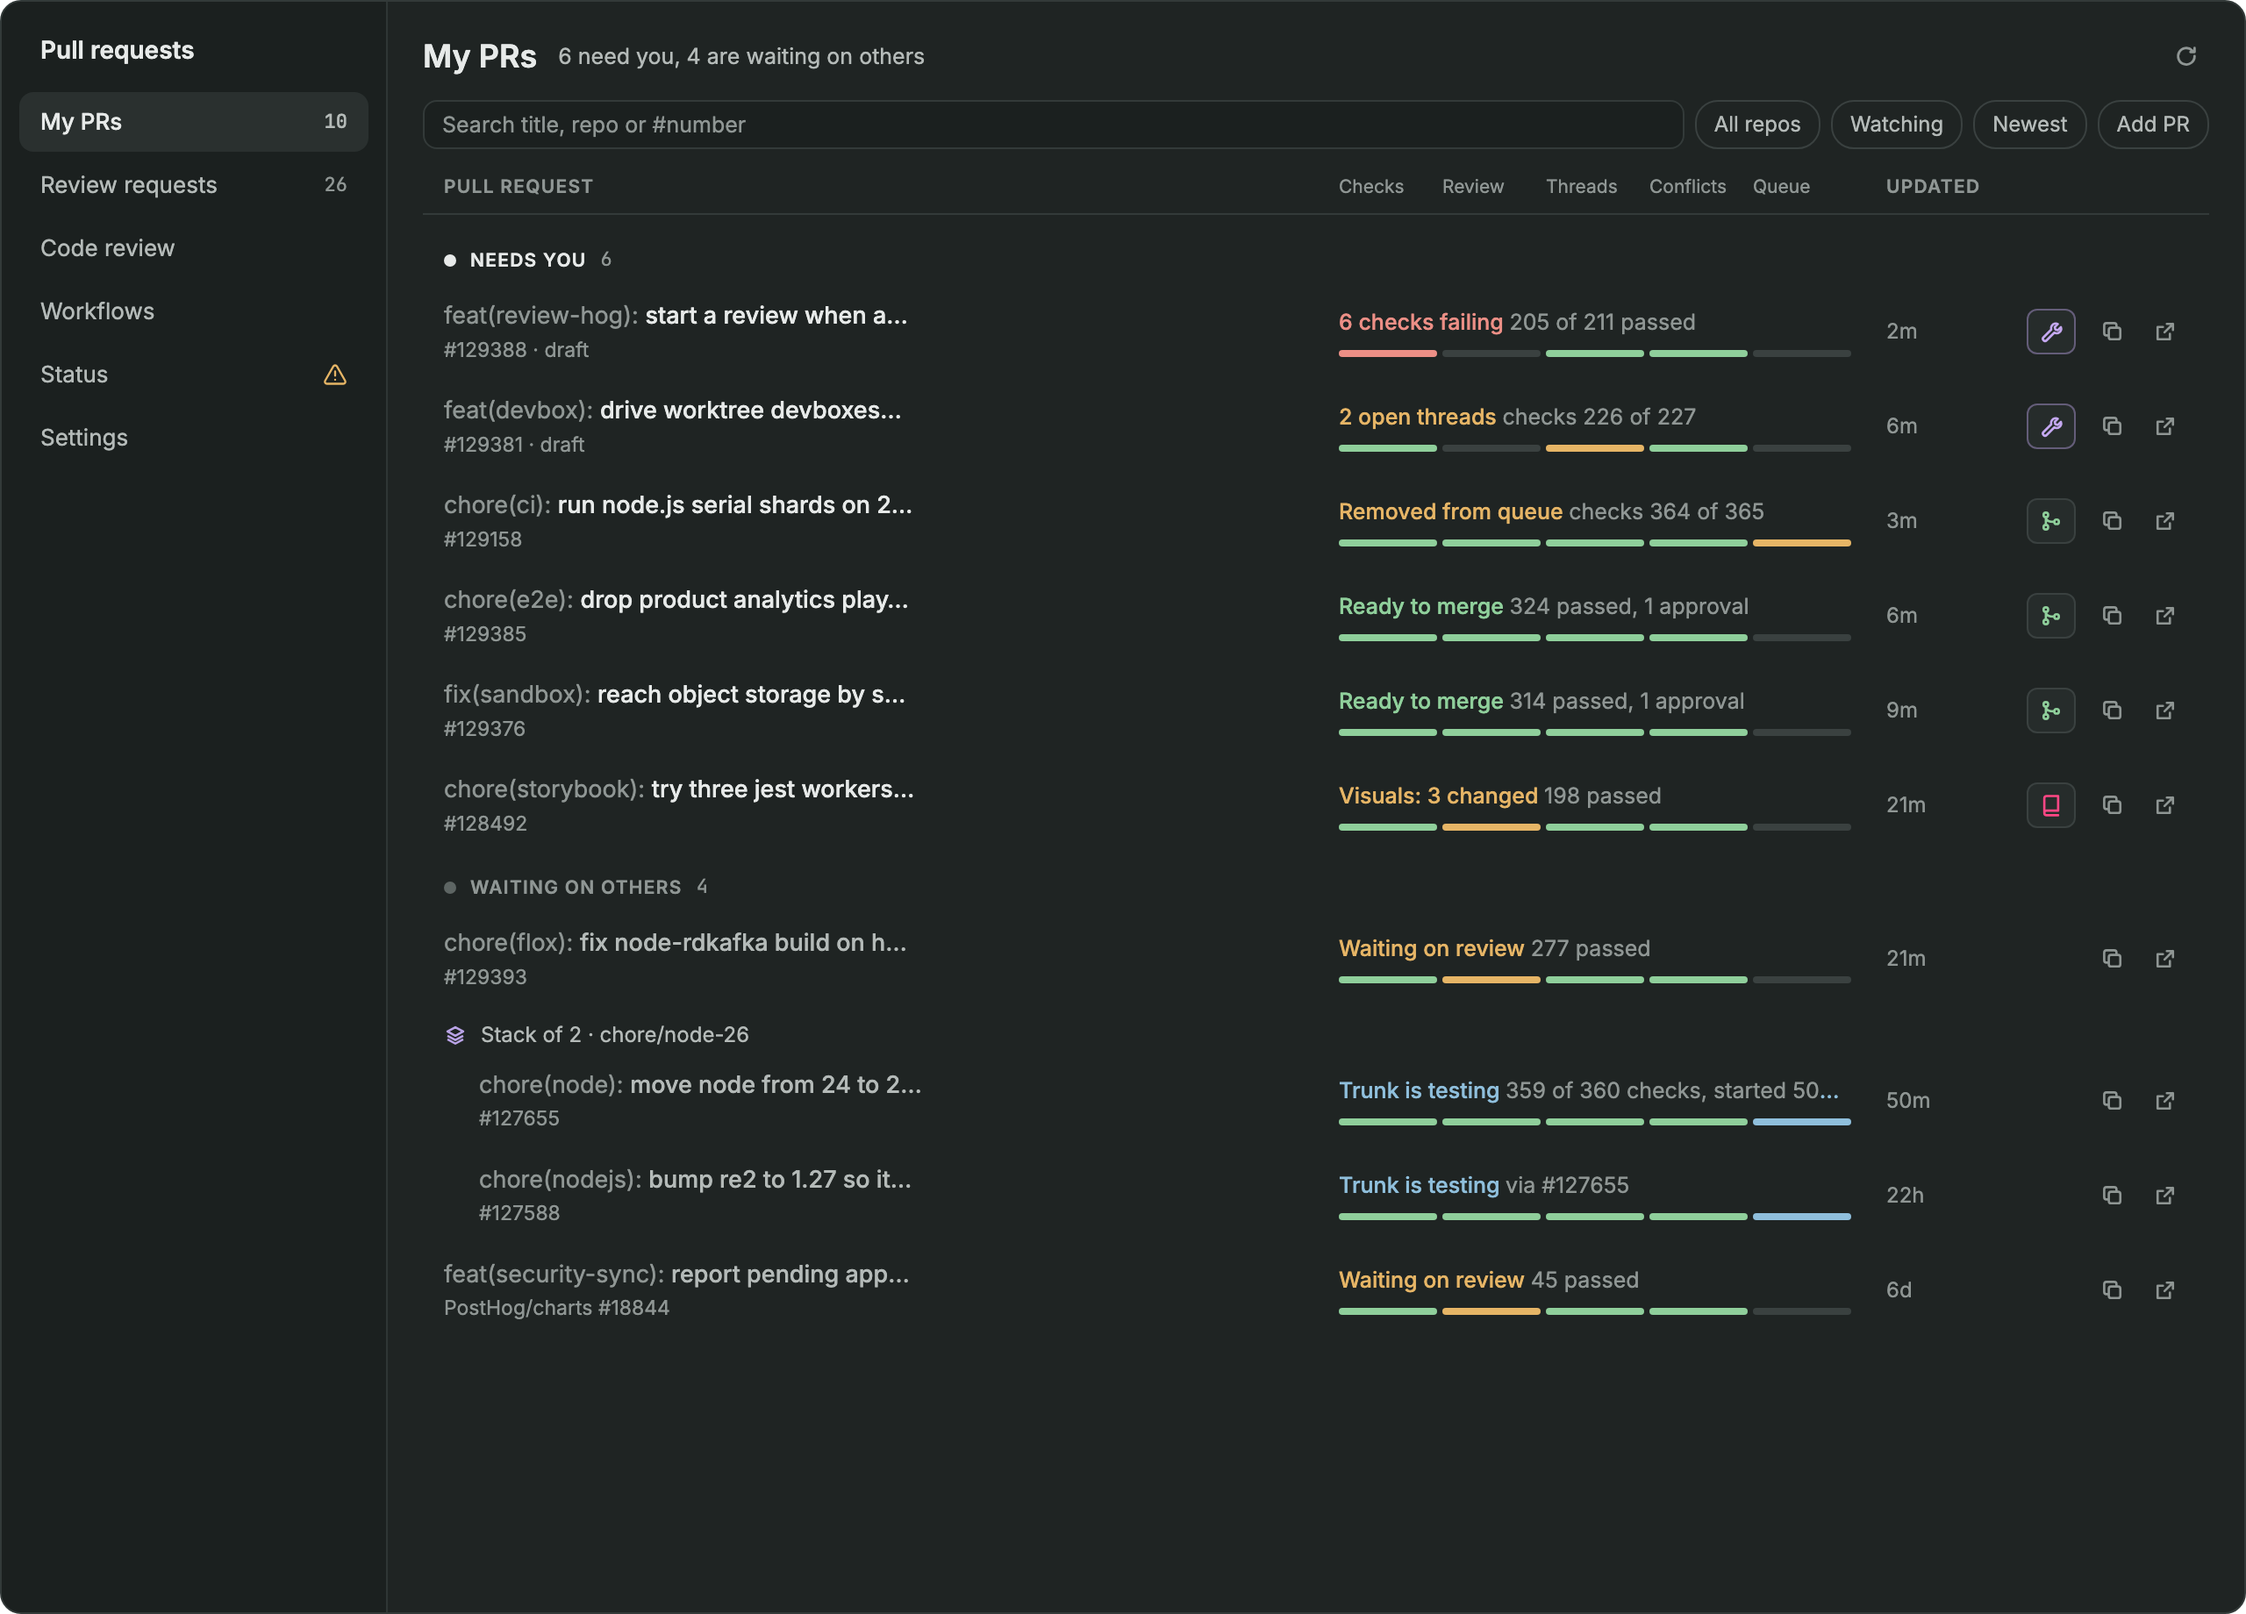
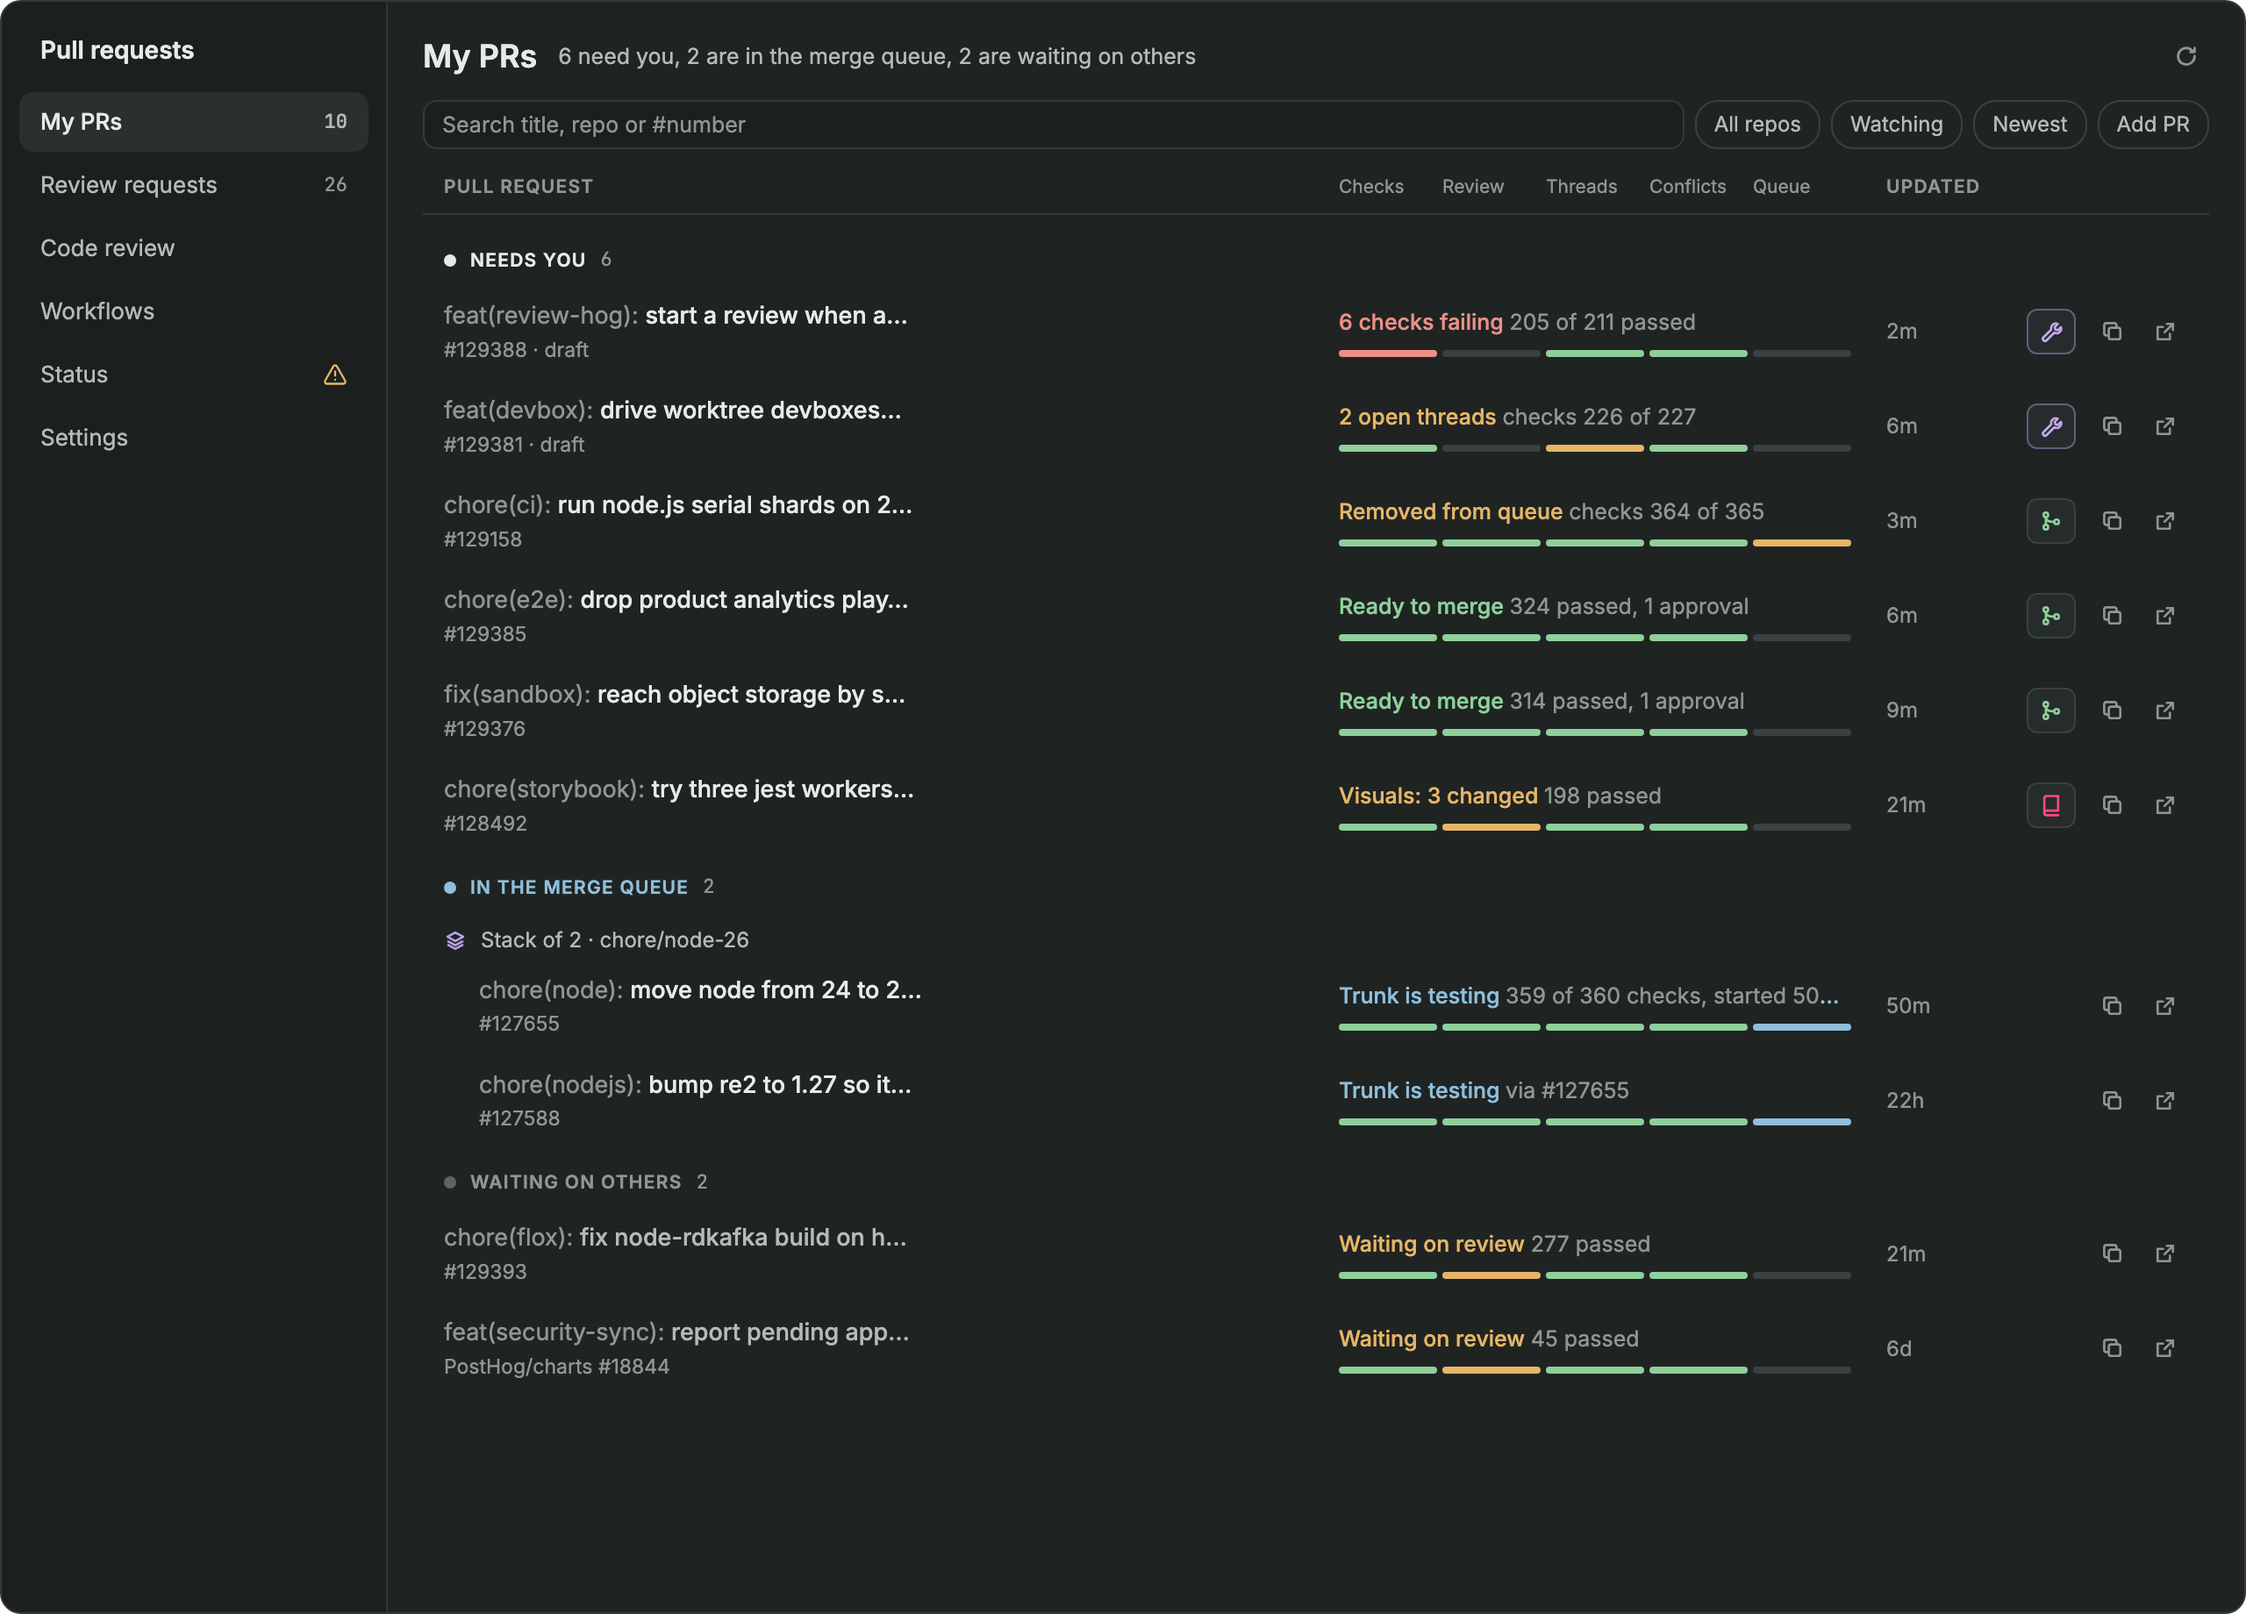
fix(pull-requests): give queued PRs their own section instead of Waiting on others

diff --git a/pull-requests/mods/prs/sidebar.js b/pull-requests/mods/prs/sidebar.js
@@ -80,13 +80,24 @@ export function needsYou(view, pr, group) {
   return pr.isDraft || visualAsks(pr).length > 0 || Boolean(next.requeue) || fixable(pr) || Boolean(next.ready && !entry);
 }
 
+const QUEUE_DONE = ["Merged", "Failed", "Cancelled"];
+
+export function inQueue(view, pr, group) {
+  const { entry } = nextFor(view, pr, group);
+  return entry ? !QUEUE_DONE.includes(entry.state) : Boolean(pr.queue?.active);
+}
+
 export function splitByNeed(view, groups) {
   const needs = groups.filter((group) => group.members.some((member) => needsYou(view, member.pr, group)));
+  const queued = groups.filter((group) => !needs.includes(group) && group.members.some((member) => inQueue(view, member.pr, group)));
   return [
     { id: "needs", label: "Needs you", groups: needs },
-    { id: "waiting", label: "Waiting on others", groups: groups.filter((group) => !needs.includes(group)) },
+    { id: "queue", label: "In the merge queue", groups: queued },
+    { id: "waiting", label: "Waiting on others", groups: groups.filter((group) => !needs.includes(group) && !queued.includes(group)) },
   ].filter((part) => part.groups.length);
 }
+
+export const isQuiet = (view, part, pr, group) => part.id === "waiting" || (part.id === "needs" && !needsYou(view, pr, group));
 
 export function priorityBadge(t, pr) {
   const chip = pr.priority?.chip;
@@ -230,8 +241,8 @@ export function sidebarMine(view, t) {
       const showRepo = group.repo !== primaryRepo;
       if (group.members.length > 1) {
         rows.push(stackHeader(view, t, group));
-        for (const member of [...group.members].reverse()) rows.push(prRow(view, t, member.pr, { depth: 1, group, quiet: !needsYou(view, member.pr, group), showRepo }));
-      } else rows.push(prRow(view, t, group.members[0].pr, { group, quiet: part.id === "waiting", showRepo }));
+        for (const member of [...group.members].reverse()) rows.push(prRow(view, t, member.pr, { depth: 1, group, quiet: isQuiet(view, part, member.pr, group), showRepo }));
+      } else rows.push(prRow(view, t, group.members[0].pr, { group, quiet: isQuiet(view, part, group.members[0].pr, group), showRepo }));
     }
   }
   return rows;

diff --git a/pull-requests/mods/prs/main.js b/pull-requests/mods/prs/main.js
@@ -10,7 +10,7 @@ import { loadConfig, config, updateConfig, configPath, machineLabel } from "./co
 import { forgetCheckouts, checkoutFor } from "./runner.js";
 import { loadTrunk, dequeue, resetTrunk } from "./trunk.js";
 import { fetchServices, queueService, statusOverview } from "./status.js";
-import { sidebarHeader, sidebarMine, sidebarReviews, sidebarRail, statusLine, prIcon, progressLine, stackHeader, gatesFor, splitByNeed, needsYou, rowButtons, nextFor } from "./sidebar.js";
+import { sidebarHeader, sidebarMine, sidebarReviews, sidebarRail, statusLine, prIcon, progressLine, stackHeader, gatesFor, splitByNeed, isQuiet, rowButtons, nextFor } from "./sidebar.js";
 import { visualAsks, stackGroups, withoutDraftStacks, step, queueFor } from "./steps.js";
 import { openClaude, CLAUDE_ICON } from "./claude.js";
 import { ago, button, iconButton, glyphButton, textIconButton, chip, badge, section, empty, field, menuItem, SPINNER, tone, TEXT, tint, avatar, countPill, codePill, gateStrip, titleText } from "./ui.js";
@@ -878,7 +878,7 @@ export default class Prs extends View {
           const meta = `${pr.repo === primaryRepo ? "" : pr.repo}#${pr.number}${pr.mine ? "" : ` · @${pr.author}`} · opened ${ago(pr.createdAt)}`;
           rows.push(this.wideRow(t, id, pr, "mine", group.members.length > 1 ? 1 : 0,
             [
-              h_flex().gap(6).items_center().child(prIcon(this, t, pr, { group })).child(div().flex_1().min_w(0).child(this.titleLine(t, pr, !needsYou(this, pr, group)))),
+              h_flex().gap(6).items_center().child(prIcon(this, t, pr, { group })).child(div().flex_1().min_w(0).child(this.titleLine(t, pr, isQuiet(this, part, pr, group)))),
               div().pl(19).min_w(0).truncate().text_size(TEXT.meta).text_color(t.dim).child(meta),
             ],
             v_flex().w(STATUS_WIDTH).flex_none().gap(5).child(statusLine(this, t, pr, { group, buttons: false })).child(gateStrip(t, id, gatesFor(this, pr, group), { segment: GATE_WIDTH, height: 4 })).when(Boolean(progress), (el) => el.child(progress)),

diff --git a/pull-requests/RECIPE.md b/pull-requests/RECIPE.md
@@ -11,13 +11,13 @@ The panel sits under the agents list. In the `Pull-Requests` layout, `cmd-shift-
 - **`flat-spaces`, the spaces list both layouts use:** Herdr's spaces list without the worktree nesting. Every space keeps its own row and avatar, even when its first terminal is in a git worktree, so tabs and panes in one space can each sit in their own worktree. The repo and branch still show after the name. Both layouts here use it; set a layout's `spaces` block back to `{ "mod": "spaces" }` for Herdr's nested list.
 - **The work area:** a stack (`pr-center`) with two children. `work` is Herdr's tabs, panes, Files/Changes panel and status bar, unchanged. `prs-page` is the full PR page. Only one shows at a time; the other keeps running.
 - **The sidebar panel:** tabs **Mine** and **Review**, each with a count, then a warning icon with a count while a service has an incident (click it for the Status page), then on Mine a draft icon that hides drafts (colored while they're hidden), a refresh icon (yellow after a failed refresh) and `⤢` to open the full page. Narrower than 160 px it draws a rail of tab icons with counts.
-  - **Mine** splits your open PRs into "Needs you" and "Waiting on others", both foldable. A PR needs you when it's a draft, has a visual review to approve, can be fixed (conflicts, failing checks, changes requested, threads), was removed from the queue, or is ready to merge; a stack sits under "Needs you" when any layer does. PRs outside the first configured repo show the repo before their number. Hiding drafts drops a stack only when every layer is a draft, so "k/N ready" still counts draft layers.
+  - **Mine** splits your open PRs into "Needs you", "In the merge queue" (queued, testing or merging, with nothing for you to do) and "Waiting on others", each foldable. A PR needs you when it's a draft, has a visual review to approve, can be fixed (conflicts, failing checks, changes requested, threads), was removed from the queue, or is ready to merge; a stack sits under "Needs you" when any layer does. PRs outside the first configured repo show the repo before their number. Hiding drafts drops a stack only when every layer is a draft, so "k/N ready" still counts draft layers.
   - **Stacks:** PRs in a stack sit under "Stack of N · top-branch", top layer first and indented. The header shows the stack's Trunk state, or "k/N ready", right after the name, and "Merge stack" once every layer is ready.
   - **Rows:** each row is a state icon and the title, with a conventional prefix like `chore(ci):` dimmed, and the whole title dimmed when the PR is waiting on others. Under it is the readiness strip: five bars for Checks, Review, Threads, Conflicts and Queue (or Merge), colored like the sheet's gates, each with a tooltip. The last line starts with `#number` (or `repo#number` outside the first repo), then the next-step chip ("CI 40/52", "2 checks failing", "Conflicts", "Changes requested", "Needs review", "Visuals: 3 changed", "Stack too deep", "Ready to merge", "Queued, waiting: …", "Testing 58%", "3rd in line", "Merging", "Merged", "Queue failed", "Waiting on #n below"), followed by checks passed/total when checks are failing, approvals and unresolved threads. Hovering a PR or queue row shows a Claude Code icon, a copy-link icon and an open icon.
   - **Testing progress:** while Trunk tests a PR, a thin bar shows checks done out of the total, and the time since the test started.
   - **Review** lists PRs waiting on your review under "Requested from you" and "Your teams" (folded at first), each sorted by priority with one reason label ("Unblocks others 3", "Last approval", "Quick (14 lines)", "Waited 36h", …). PRs you hid fold into "Hidden".
 - **The full page:** a 230 px nav (My PRs, Review requests, Code review, Workflows, Status, Settings, and "Back to terminals ⌘⇧G" at the bottom), then the page's title, search, filter chips and a table.
-  - **Tables:** My PRs and Review requests have a Title column, the five gates as column headers over each row's status line and readiness strip, and an Updated column. My PRs is split into "Needs you" and "Waiting on others" like the sidebar. The last column has the row's action icons, always shown, then Claude Code, Agent review, Copy and Open icons while the row is hovered. The content is capped at 1280 px wide and left-aligned, with the title, toolbar, column header and rows on one 20 px gutter. They use the sidebar's icons, chips, stack headers and progress bars.
+  - **Tables:** My PRs and Review requests have a Title column, the five gates as column headers over each row's status line and readiness strip, and an Updated column. My PRs is split into "Needs you", "In the merge queue" and "Waiting on others" like the sidebar. The last column has the row's action icons, always shown, then Claude Code, Agent review, Copy and Open icons while the row is hovered. The content is capped at 1280 px wide and left-aligned, with the title, toolbar, column header and rows on one 20 px gutter. They use the sidebar's icons, chips, stack headers and progress bars.
   - **Filter chips:** repo, Hide drafts, Needs attention, Needs review, Ready to merge, Watching, newest/oldest, requested via (direct or a team), Priority, saved filters, "+ Filter", "+ Add PR" and Copy list.
   - **Status:** a grid of tiles, one per service the work depends on: GitHub, Trunk, Depot, Docker, Claude and OpenAI, read from each one's public status page every two minutes, plus the Trunk merge queue's own state. A tile has a dot (green when it's up, amber when degraded, red in an outage, blue under maintenance, grey when the page couldn't be read), the service's name and its one-line state. A service with trouble sorts first, gets a colored border and lists up to two open incidents; a tile opens its status page. While any service has an incident, the Status nav item shows a warning icon. The list is `status.services` in `prs-config.json` (a name and a status page URL each).
 - **The detail sheet:** a 900×820 dialog. The header has the PR's state icon, its title, and icon buttons for Refresh, Open on GitHub and Close, then the repo and number, the author, and head → base branch.

diff --git a/pull-requests/README.md b/pull-requests/README.md
@@ -5,7 +5,7 @@ A PR panel for Herdr's sidebar and a full-page PR workspace: your PRs, the Trunk
 
 ## PR rows
 
-My PRs splits into what needs you and what's waiting on others. Each row has a five-part readiness strip (Checks, Review, Threads, Conflicts, Queue) and shows an action icon only when something is yours to do. These are design mockups.
+My PRs splits into what needs you, what's in the merge queue and what's waiting on others. Each row has a five-part readiness strip (Checks, Review, Threads, Conflicts, Queue) and shows an action icon only when something is yours to do. These are design mockups.
 
 ![My PRs on the full page](screenshots/rows-page.png)
 
